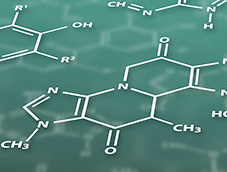
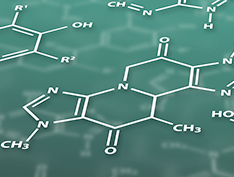
rescaled images
git-svn-id: https://repos.nextthought.com/svn/nti-svn/NextThoughtLoginApp/trunk@23205 3dfb626b-079f-4ab1-a9f6-4654e5377508

diff --git a/src/main/WebApp/landing/platform.ou.edu/main.css b/src/main/WebApp/landing/platform.ou.edu/main.css
@@ -88,7 +88,7 @@
 .grid-item img {
 	border: 0;
 	width: 234px;
-	height: 172px;
+	height: 177px;
 }
 
 .grid-item .meta {
